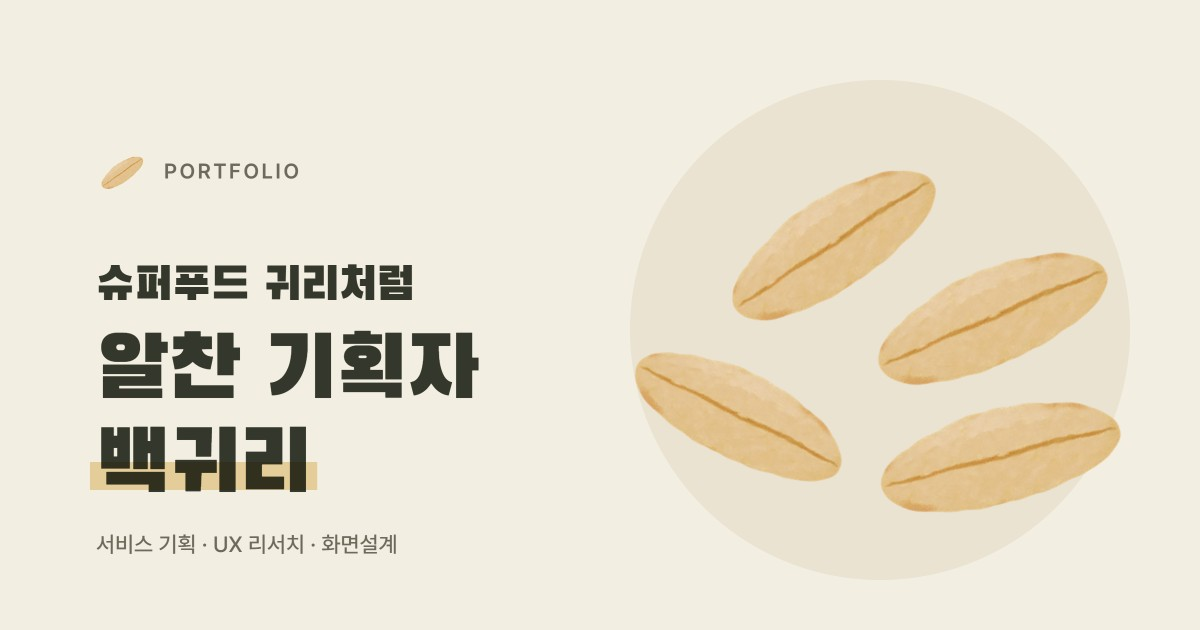
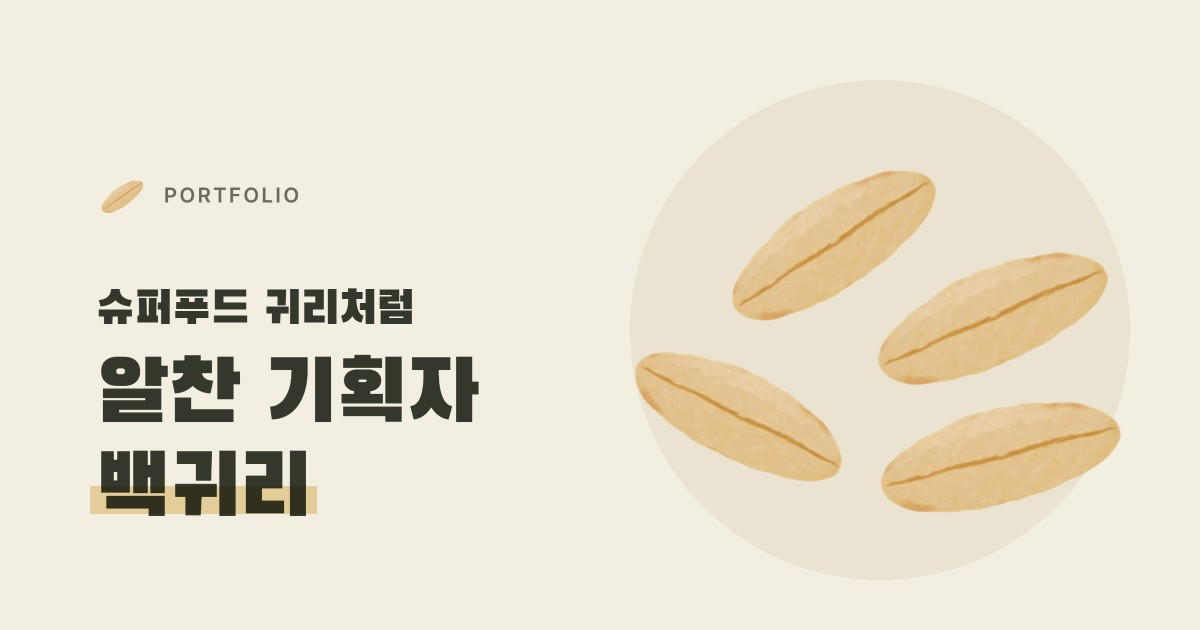
Simplify link-preview image (drop skills line)

Changed region(s): [[0.0617, 0.4222, 0.4008, 0.8746], [0.0617, 0.2413, 0.2467, 0.3317]]

diff --git a/index.html b/index.html
@@ -11,7 +11,7 @@
 <meta property="og:title" content="알찬 기획자 백귀리 | 포트폴리오">
 <meta property="og:description" content="슈퍼푸드 귀리처럼, 알찬 기획자 백귀리의 서비스 기획 포트폴리오">
 <meta property="og:url" content="https://oat100.github.io/portfolio/">
-<meta property="og:image" content="https://oat100.github.io/portfolio/og-image.jpg">
+<meta property="og:image" content="https://oat100.github.io/portfolio/og-image.jpg?v=2">
 <meta property="og:image:width" content="1200">
 <meta property="og:image:height" content="630">
 <meta property="og:image:alt" content="슈퍼푸드 귀리처럼 알찬 기획자 백귀리">
